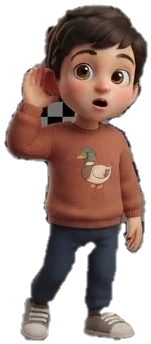
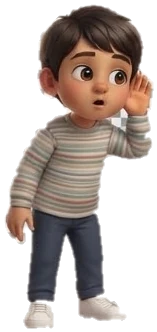
Noorani: align Unit 1 with the family's Qaida PDF; swap Hamad/Talal art
- Qaida letter names (بَا، تَا … زَا) and both ya forms (ى ے) as in lesson 1, p. 6
- Never offer two same-sounding letters as choices
- Levels 1–12 mapped to the PDF's 17 lessons in book order
- Hamad = striped sweater, Talal = duck sweater

Claude-Session: https://claude.ai/code/session_01BpQT9Xxn4xGfqQBVt22B76

diff --git a/src/data/noorani/unit1Letters.ts b/src/data/noorani/unit1Letters.ts
@@ -1,5 +1,7 @@
 // Noorani Qaida — Lesson 1: الحروف الهجائية المفردة (single letters), in the Qaida's order.
-// Letter names reuse the existing recorded female clips (`letters-<id>` in arabicCurriculumAudio).
+// Checked against the family's PDF (p. 6): same 30 cells, same order, same row groups, Qaida letter names.
+// Audio reuses the existing recorded female clips (`letters-<id>`); those say the standard names
+// (بَاء not بَا) until Qaida-style recordings are dropped into nooraniClips.
 // Edit content here only; the engines build every activity from this file.
 import { curriculumAudio } from "@/data/arabicCurriculumAudio";
 import type { ActivitySpec, BuildSpec, NooraniItem, NooraniSkill, NooraniUnit } from "./types";
@@ -14,40 +16,42 @@ const B = (base: string, dots: BuildSpec["dots"], place: BuildSpec["place"]): Bu
 
 // id, glyph, spoken name, parent label, build spec, look/sound-alike ids
 const L = (id: string, glyph: string, say: string, en: string, build: BuildSpec | undefined, confusable: string[]): NooraniItem => {
-  const clip = curriculumAudio[`letters-${id}`];
+  const clip = curriculumAudio[`letters-${id === "ya2" ? "ya" : id}`];
   return { id, glyph, say, en, confusable, ...(build ? { build } : {}), ...(clip ? { audio: { target: clip } } : {}) };
 };
 
 export const unit1Items: NooraniItem[] = [
   L("alif", "ا", "أَلِف", "Alif", undefined, ["hamza", "lam"]),
-  L("ba", "ب", "بَاء", "Ba", B(DOTLESS_BA, 1, "below"), ["ta", "tha", "nun", "ya"]),
-  L("ta", "ت", "تَاء", "Ta", B(DOTLESS_BA, 2, "above"), ["ba", "tha", "tta", "nun"]),
-  L("tha", "ث", "ثَاء", "Tha", B(DOTLESS_BA, 3, "above"), ["ta", "ba", "sin", "dhal"]),
+  L("ba", "ب", "بَا", "Ba", B(DOTLESS_BA, 1, "below"), ["ta", "tha", "nun", "ya"]),
+  L("ta", "ت", "تَا", "Ta", B(DOTLESS_BA, 2, "above"), ["ba", "tha", "tta", "nun"]),
+  L("tha", "ث", "ثَا", "Tha", B(DOTLESS_BA, 3, "above"), ["ta", "ba", "sin", "dhal"]),
   L("jim", "ج", "جِيم", "Jim", B("ح", 1, "below"), ["hha", "kha"]),
-  L("hha", "ح", "حَاء", "Ḥa", B("ح", 0, "none"), ["jim", "kha", "ha"]),
-  L("kha", "خ", "خَاء", "Kha", B("ح", 1, "above"), ["hha", "jim", "ghayn"]),
+  L("hha", "ح", "حَا", "Ḥa", B("ح", 0, "none"), ["jim", "kha", "ha"]),
+  L("kha", "خ", "خَا", "Kha", B("ح", 1, "above"), ["hha", "jim", "ghayn"]),
   L("dal", "د", "دَال", "Dal", B("د", 0, "none"), ["dhal", "dad", "ra"]),
   L("dhal", "ذ", "ذَال", "Dhal", B("د", 1, "above"), ["dal", "zay", "zza"]),
-  L("ra", "ر", "رَاء", "Ra", B("ر", 0, "none"), ["zay", "dal", "waw"]),
-  L("zay", "ز", "زَاي", "Zay", B("ر", 1, "above"), ["ra", "dhal", "zza"]),
+  L("ra", "ر", "رَا", "Ra", B("ر", 0, "none"), ["zay", "dal", "waw"]),
+  L("zay", "ز", "زَا", "Zay", B("ر", 1, "above"), ["ra", "dhal", "zza"]),
   L("sin", "س", "سِين", "Sin", B("س", 0, "none"), ["shin", "sad", "tha"]),
   L("shin", "ش", "شِين", "Shin", B("س", 3, "above"), ["sin", "tha"]),
   L("sad", "ص", "صَاد", "Ṣad", B("ص", 0, "none"), ["dad", "sin", "tta"]),
   L("dad", "ض", "ضَاد", "Ḍad", B("ص", 1, "above"), ["sad", "dal", "zza"]),
-  L("tta", "ط", "طَاء", "Ṭa", B("ط", 0, "none"), ["zza", "ta"]),
-  L("zza", "ظ", "ظَاء", "Ẓa", B("ط", 1, "above"), ["tta", "dhal", "zay", "dad"]),
+  L("tta", "ط", "طَا", "Ṭa", B("ط", 0, "none"), ["zza", "ta"]),
+  L("zza", "ظ", "ظَا", "Ẓa", B("ط", 1, "above"), ["tta", "dhal", "zay", "dad"]),
   L("ayn", "ع", "عَيْن", "ʿAyn", B("ع", 0, "none"), ["ghayn", "hamza", "alif"]),
   L("ghayn", "غ", "غَيْن", "Ghayn", B("ع", 1, "above"), ["ayn", "kha"]),
-  L("fa", "ف", "فَاء", "Fa", B(DOTLESS_FA, 1, "above"), ["qaf"]),
+  L("fa", "ف", "فَا", "Fa", B(DOTLESS_FA, 1, "above"), ["qaf"]),
   L("qaf", "ق", "قَاف", "Qaf", B(DOTLESS_QAF, 2, "above"), ["fa", "kaf"]),
   L("kaf", "ك", "كَاف", "Kaf", undefined, ["qaf", "lam"]),
   L("lam", "ل", "لَام", "Lam", undefined, ["kaf", "alif"]),
   L("mim", "م", "مِيم", "Mim", undefined, ["nun", "ha"]),
   L("nun", "ن", "نُون", "Nun", B(DOTLESS_NUN, 1, "above"), ["ba", "ta", "mim"]),
   L("waw", "و", "وَاو", "Waw", undefined, ["ra", "zay"]),
-  L("ha", "ه", "هَاء", "Ha", undefined, ["hha", "mim"]),
+  L("ha", "ه", "هَا", "Ha", undefined, ["hha", "mim"]),
   L("hamza", "ء", "هَمْزَة", "Hamza", undefined, ["alif", "ayn"]),
-  L("ya", "ي", "يَاء", "Ya", B(DOTLESS_YA, 2, "below"), ["ba", "ta", "nun"]),
+  // The Qaida writes ya without dots (ى) and also shows the long form (ے); both are read "يا".
+  L("ya", "ى", "يَا", "Ya", undefined, ["ya2", "nun", "ba"]),
+  L("ya2", "ے", "يَا", "Ya (long form)", undefined, ["ya", "ra"]),
 ];
 
 /** The default session for one group of letters: HEAR → SEE → IDENTIFY → BUILD → READ → MASTER. */
@@ -80,7 +84,7 @@ export const unit1Letters: NooraniUnit = {
     lesson: 1,
     ar: "الدَّرْسُ الْأَوَّل: الْحُرُوفُ الْهِجَائِيَّةُ الْمُفْرَدَة",
     en: "Lesson 1 — the single letters, in Qaida order",
-    note: "Letter order follows the Qaida (… ن و ه ء ي). Verify against the family's PDF edition before expanding.",
+    note: "Verified against the family's PDF, p. 6 — rows of five, ending و ه ء ى ے.",
   },
   items: unit1Items,
   skills: [
@@ -89,6 +93,6 @@ export const unit1Letters: NooraniUnit = {
     group("u1-g3", ["zay", "sin", "shin", "sad", "dad"], "Zay to Ḍad"),
     group("u1-g4", ["tta", "zza", "ayn", "ghayn", "fa"], "Ṭa to Fa"),
     group("u1-g5", ["qaf", "kaf", "lam", "mim", "nun"], "Qaf to Nun"),
-    group("u1-g6", ["waw", "ha", "hamza", "ya"], "Waw to Ya"),
+    group("u1-g6", ["waw", "ha", "hamza", "ya", "ya2"], "Waw to Ya"),
   ],
 };

diff --git a/src/data/noorani/index.ts b/src/data/noorani/index.ts
@@ -1,6 +1,6 @@
 // Noorani world registry: levels, units and the spoken phrases the engines use.
-// Levels 2–12 stay empty until their content is extracted from the family's Qaida PDF —
-// nothing is invented here.
+// Levels follow the family's Qaida PDF (Nour Muhammad Haqqani, 13th ed.). Levels 2–12 are
+// mapped to their lessons but stay empty until each unit is built from those pages.
 import { curriculumAudio } from "@/data/arabicCurriculumAudio";
 import type { NooraniItem, NooraniLevel, NooraniUnit, Phrase } from "./types";
 import { unit1Letters } from "./unit1Letters";
@@ -9,19 +9,20 @@ export * from "./types";
 
 export const nooraniUnits: NooraniUnit[] = [unit1Letters];
 
+/** The PDF's 17 lessons grouped into 12 levels, in the book's own order (pp. 6–28). */
 export const nooraniLevels: NooraniLevel[] = [
-  { level: 1, ar: "الْحُرُوف", en: "Letters & sounds", unitIds: ["u1-letters"] },
-  { level: 2, ar: "الْحُرُوف", en: "Letters & sounds", unitIds: [] },
-  { level: 3, ar: "الْحَرَكَات", en: "Harakat", unitIds: [] },
-  { level: 4, ar: "الْحَرَكَات", en: "Harakat", unitIds: [] },
-  { level: 5, ar: "قَوَاعِد", en: "Rules", unitIds: [] },
-  { level: 6, ar: "قَوَاعِد", en: "Rules", unitIds: [] },
-  { level: 7, ar: "قَوَاعِد", en: "Rules", unitIds: [] },
-  { level: 8, ar: "الْمَدّ", en: "Madd", unitIds: [] },
-  { level: 9, ar: "", en: "Next rules", unitIds: [] },
-  { level: 10, ar: "", en: "Advanced", unitIds: [] },
-  { level: 11, ar: "", en: "Advanced", unitIds: [] },
-  { level: 12, ar: "الطَّلَاقَة", en: "Fluency", unitIds: [] },
+  { level: 1, ar: "حُرُوفُ الْهِجَاءِ الْمُفْرَدَة", en: "Single letters", lessons: [1], unitIds: ["u1-letters"] },
+  { level: 2, ar: "الْحُرُوفُ الْمُرَكَّبَة وَالْمُقَطَّعَة", en: "Joined letters · Muqattaʿat", lessons: [2, 3], unitIds: [] },
+  { level: 3, ar: "الْحُرُوفُ الْمُتَحَرِّكَة", en: "Harakat", lessons: [4], unitIds: [] },
+  { level: 4, ar: "الْحُرُوفُ الْمُنَوَّنَة", en: "Tanween + drills", lessons: [5, 6], unitIds: [] },
+  { level: 5, ar: "الْأَلِفُ وَالْيَاءُ وَالْوَاوُ الصَّغِيرَة", en: "Small alif, ya, waw", lessons: [7], unitIds: [] },
+  { level: 6, ar: "حُرُوفُ الْمَدِّ وَاللِّين", en: "Madd & leen", lessons: [8], unitIds: [] },
+  { level: 7, ar: "تَدْرِيبَاتٌ عَلَى التَّنْوِينِ وَالْمَدّ", en: "Tanween, madd & leen drills", lessons: [9], unitIds: [] },
+  { level: 8, ar: "السُّكُون", en: "Sukoon + drills", lessons: [10, 11], unitIds: [] },
+  { level: 9, ar: "الشَّدَّة", en: "Shadda + drills", lessons: [12, 13], unitIds: [] },
+  { level: 10, ar: "الشَّدَّةُ وَالسُّكُون", en: "Shadda & sukoon, two shaddas", lessons: [14, 15], unitIds: [] },
+  { level: 11, ar: "الشَّدَّةُ وَالسُّكُونُ مَعَ الْمَدّ", en: "Shadda & sukoon with madd", lessons: [16], unitIds: [] },
+  { level: 12, ar: "تَدْرِيبَاتٌ عَلَى مَا سَبَق", en: "Review of everything", lessons: [17], unitIds: [] },
 ];
 
 export const nooraniItems: Record<string, NooraniItem> = Object.fromEntries(nooraniUnits.flatMap((u) => u.items.map((i) => [i.id, i])));

diff --git a/src/components/noorani/NooraniWorld.tsx b/src/components/noorani/NooraniWorld.tsx
@@ -88,12 +88,12 @@ export function NooraniWorld({ onExit }: { onExit: () => void }) {
             <Ar className="text-lg font-black text-muted-foreground">الْمُسْتَوَيَاتُ الْقَادِمَة</Ar>
             <div className="mt-2 flex flex-wrap gap-2">
               {nooraniLevels.filter((l) => !l.unitIds.length).map((l) => (
-                <span key={l.level} className="rounded-full bg-card/70 px-3 py-1.5 text-sm font-bold text-muted-foreground shadow-sm">
-                  {l.level} {l.ar ? <Ar>· {l.ar}</Ar> : null}
+                <span key={l.level} title={`Qaida lesson ${l.lessons.join("–")} · ${l.en}`} className="rounded-full bg-card/70 px-3 py-1.5 text-sm font-bold text-muted-foreground shadow-sm">
+                  {l.level} <Ar>· {l.ar}</Ar>
                 </span>
               ))}
             </div>
-            <p dir="ltr" className="mt-2 text-xs font-bold text-muted-foreground">Levels 2–12 will be added from the family’s Qaida PDF — nothing is invented.</p>
+            <p dir="ltr" className="mt-2 text-xs font-bold text-muted-foreground">Levels 2–12 follow the Qaida’s 17 lessons in order and open as each one is built.</p>
           </div>
         </div>
 

diff --git a/src/components/noorani/ui.tsx b/src/components/noorani/ui.tsx
@@ -101,7 +101,8 @@ export type ActivityProps = {
 
 /** Distractors: look/sound-alikes the child has met first, then anything else from the pool. */
 export function choicesFor(target: NooraniItem, pool: NooraniItem[], n: number): NooraniItem[] {
-  const others = pool.filter((p) => p.id !== target.id);
+  // Never offer a second item that sounds the same (e.g. the two forms of ya).
+  const others = pool.filter((p) => p.id !== target.id && p.say !== target.say);
   const alike = others.filter((p) => target.confusable?.includes(p.id)).sort(() => Math.random() - 0.5);
   const rest = others.filter((p) => !alike.includes(p)).sort(() => Math.random() - 0.5);
   return [target, ...[...alike, ...rest].slice(0, n - 1)].sort(() => Math.random() - 0.5);

diff --git a/src/data/noorani/types.ts b/src/data/noorani/types.ts
@@ -75,7 +75,8 @@ export type NooraniLevel = {
   level: number;
   ar: string;
   en: string;
-  unitIds: string[]; // empty = waiting for source content
+  lessons: number[]; // Qaida lesson numbers this level covers
+  unitIds: string[]; // empty = not built yet
 };
 
 export type Phrase = { ar: string; say: string; clip?: string };

diff --git a/AGENTS.md b/AGENTS.md
@@ -28,4 +28,4 @@
 - Palestinian Kitchen: one engine in src/components/kitchen/CookingStage.tsx reads dishes from src/data/kitchenRecipes.ts (step = vessel + interaction + voice lines); add dishes as data only, never new engines.
 - Kitchen Arabic voice = recorded ElevenLabs phrase clips (src/data/kitchenVoice.ts, played by src/lib/kitchenClips.ts) referenced by id in each Line.v; never TTS, so Arabic never reads UI text or punctuation.
 - Seek & find (أدور وألاقي) is one engine in src/components/arabic/SeekAndFind.tsx reading scenes from src/data/seekWorld.ts (background, % hotspot boxes, tags/colors, audio-sprite keys); add scenes as data only. Own localStorage key seek-find-v1.
-- Noorani Qaida (🌳 حديقة النور, Arabic tab) lives in src/components/noorani/: one Session runner + reusable engines in activities/ (Meet, ListenAndFind, HearAndMatch, BuildTheSound, WhichIsDifferent, ReadAloud, CharacterGame; Quick Review = ListenAndFind fed by spaced repetition). Content is data only in src/data/noorani/ (unit → skills → items → activity specs); add units there, never new engines. Audio via src/lib/nooraniAudio.ts (nooraniClips override → item/phrase clip → shared female Arabic voice). Per-child mastery + Leitner review in src/lib/nooraniProgress.ts under its own key noorani-v1; never gates access. Levels 2–12 stay empty until extracted from the family's Qaida PDF.
+- Noorani Qaida (🌳 حديقة النور, Arabic tab) lives in src/components/noorani/: one Session runner + reusable engines in activities/ (Meet, ListenAndFind, HearAndMatch, BuildTheSound, WhichIsDifferent, ReadAloud, CharacterGame; Quick Review = ListenAndFind fed by spaced repetition). Content is data only in src/data/noorani/ (unit → skills → items → activity specs); add units there, never new engines. Audio via src/lib/nooraniAudio.ts (nooraniClips override → item/phrase clip → shared female Arabic voice). Per-child mastery + Leitner review in src/lib/nooraniProgress.ts under its own key noorani-v1; never gates access. Levels 2–12 are mapped to the PDF's 17 lessons in book order (src/data/noorani/index.ts) and stay empty until each unit is built from those pages.

diff --git a/roadmap.md b/roadmap.md
@@ -53,5 +53,6 @@
 - [ ] Montessori Bead Garden audit: drag/snap/reset, chain proportions & colors, equations reject wrong, browser test
 
 - [x] Noorani Qaida foundation: data model, per-child mastery + spaced review, 7 reusable activity engines, Unit 1 (single letters, 6 groups)
-- [ ] Noorani: confirm letter order/names against the family's PDF edition; record Noorani-style letter audio
-- [ ] Noorani Levels 2–12 from the supplied PDF (data only)
+- [x] Noorani: Unit 1 checked against the PDF (order, rows, names, both ya forms)
+- [ ] Noorani: record Qaida-style letter names (بَا not بَاء) into nooraniClips
+- [ ] Noorani Levels 2–12 from the PDF, one level at a time (data only)
